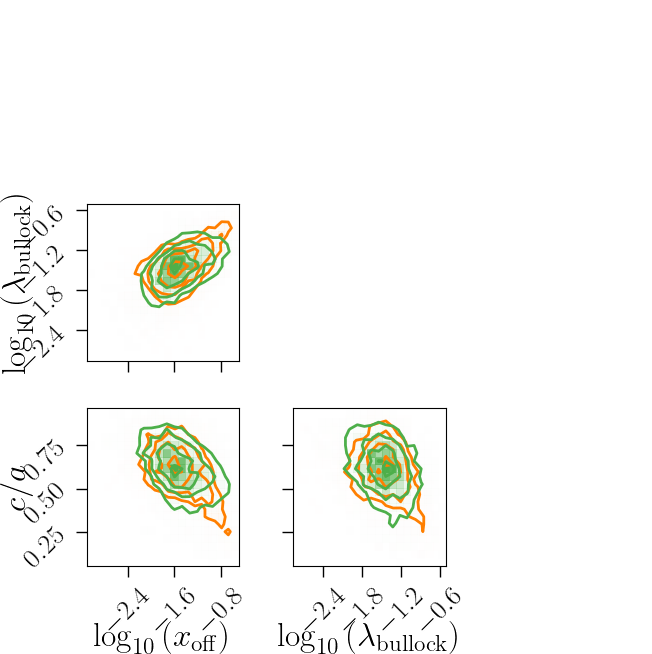
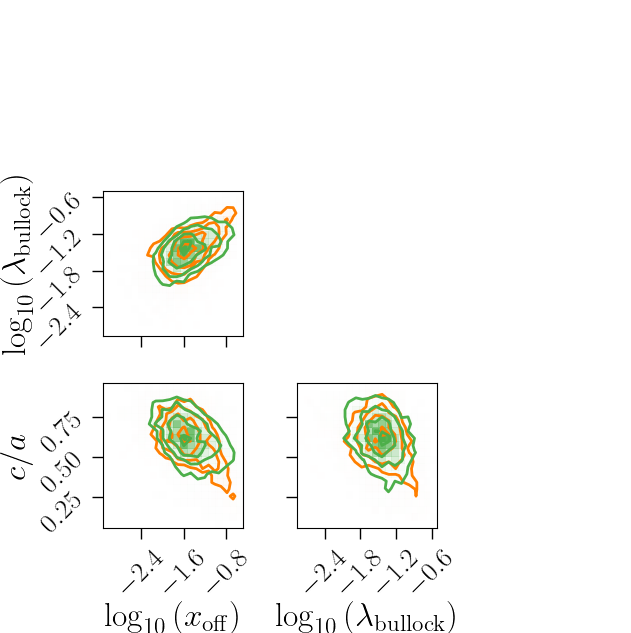
fix labelpad

diff --git a/bin/figures.py b/bin/figures.py
@@ -390,15 +390,13 @@ class TriangleSamples(Figure):
             _y1 = y1[:, self.subset_params]
             _y2 = y2[:, self.subset_params]
             _labels = [labels[ii] for ii in self.subset_params]
-            fig = corner.corner(
-                _y1, labels=_labels, color="C1", labelpad=0.05, max_n_ticks=4, plot_datapoints=False
-            )
+            fig = corner.corner(_y1, color="C1", max_n_ticks=4, plot_datapoints=False)
             fig = corner.corner(
                 _y2,
                 labels=_labels,
                 fig=fig,
                 color="C2",
-                labelpad=0.05,
+                labelpad=0.2,
                 max_n_ticks=4,
                 plot_datapoints=False,
             )
